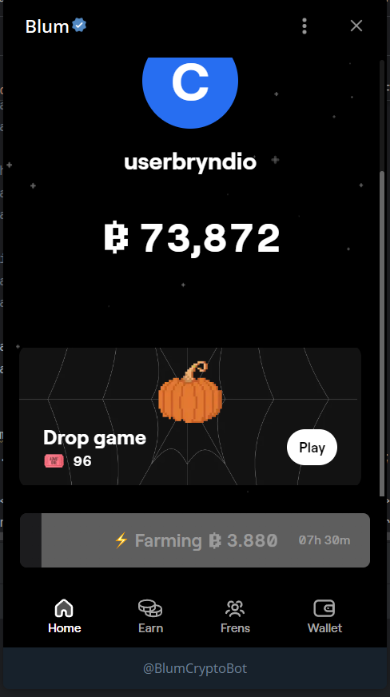
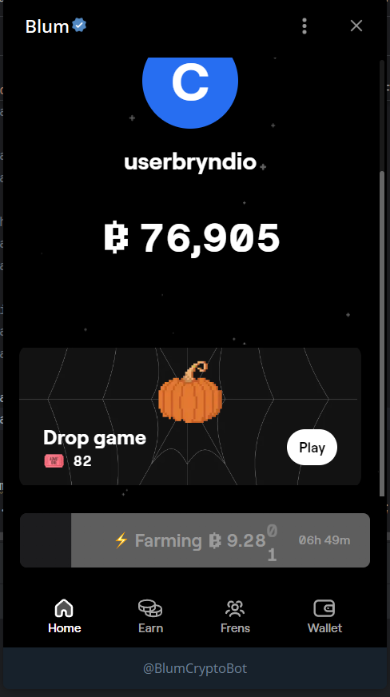
Now it is done for web and desktop tg. Fixed delays almost to min

diff --git a/AutoClicker/blumkiss/src/logic/Logic.java b/AutoClicker/blumkiss/src/logic/Logic.java
@@ -30,6 +30,15 @@ public class Logic {
     static {
         System.loadLibrary(Core.NATIVE_LIBRARY_NAME);
     }
+    static int webX = 717;
+    static int webY = 82;
+    static int webWidth = 488;
+    static int webHeight = 872;
+
+//    static int webX = 698;
+//    static int webY = 200;
+//    static int webWidth = 524;
+//    static int webHeight = 820;
 
     public static void main(String[] args) throws IOException, AWTException, InterruptedException {
         Logic logic = new Logic();
@@ -131,6 +140,8 @@ public class Logic {
 //        Thread.sleep(2500);
 
         captureAndSearchText(robot, Config.playPng, Config.searchWallet, Config.searchWallet);
+   //     captureAndSearchText(robot, Config.playPng, "game", "game");
+
 
     }
 
@@ -161,12 +172,12 @@ public class Logic {
 
     public void captureAndSearchText(Robot robot, String fileName, String searchText, String foundText) throws AWTException, IOException, InterruptedException {
         BufferedImage screenshot;
-        if(searchText.equals("Wallet")){
+        if(searchText.equals("Wallet") || searchText.equals("game")){
 
-            int xPlay = (717*Config.width)/1920;
-            int yPlay = (82*Config.height)/1080;
-            int widthPlay = (488*Config.width)/1920;
-            int heightPlay = (872*Config.height)/1080;
+            int xPlay = (webX*Config.width)/1920;
+            int yPlay = (webY*Config.height)/1080;
+            int widthPlay = (webWidth*Config.width)/1920;
+            int heightPlay = (webHeight*Config.height)/1080;
             screenshot = new Robot().createScreenCapture(
                     new java.awt.Rectangle(xPlay, yPlay , widthPlay, heightPlay)
             );
@@ -199,8 +210,8 @@ public class Logic {
         for (Word word : words) {
             if (word.getText().equalsIgnoreCase(searchText)) {
                 java.awt.Rectangle boundingBox = word.getBoundingBox();
-                int xPlay = (717*Config.width)/1920;
-                int yPlay = (82*Config.height)/1080;
+                int xPlay = (webX*Config.width)/1920;
+                int yPlay = (webY*Config.height)/1080;
 
                 int x = boundingBox.x;
                 int y = boundingBox.y;
@@ -208,6 +219,13 @@ public class Logic {
                 int heightBox = boundingBox.height;
                 if(searchText.matches("Wallet")){
                     robot.mouseMove(xPlay+x, yPlay+y - ((225*Config.width)/1920));
+                    Thread.sleep(2000);
+                    robot.mousePress(InputEvent.BUTTON1_DOWN_MASK);
+                    robot.mouseRelease(InputEvent.BUTTON1_DOWN_MASK);
+                    Config.findPlay = true;
+                }
+                else if(searchText.matches("game")){
+                    robot.mouseMove(xPlay+x + (300*Config.width)/1920, yPlay+y);
                     Thread.sleep(2000);
                     robot.mousePress(InputEvent.BUTTON1_DOWN_MASK);
                     robot.mouseRelease(InputEvent.BUTTON1_DOWN_MASK);
@@ -237,17 +255,17 @@ public class Logic {
     }
 
     public void playGame(Robot robot) throws IOException, InterruptedException, AWTException {
-        int xPlay = (717*Config.width)/1920;
-        int yPlay = (82*Config.height)/1080;
-        int widthPlay = (488*Config.width)/1920;
-        int heightPlay = (872*Config.height)/1080;
+        int xPlay = (webX*Config.width)/1920;
+        int yPlay = (webY*Config.height)/1080;
+        int widthPlay = (webWidth*Config.width)/1920;
+        int heightPlay = (webHeight*Config.height)/1080;
         int gameplayIndex = 0;
-        long gameDuration = 32 * 1000;
+        long gameDuration = 33 * 1000;
         long startTime = System.currentTimeMillis();
 
         robot.mousePress(InputEvent.BUTTON1_DOWN_MASK);
         robot.mouseRelease(InputEvent.BUTTON1_DOWN_MASK);
-        Thread.sleep(2000);
+        Thread.sleep(200);
 
         while (System.currentTimeMillis() - startTime < gameDuration) {
             while (System.currentTimeMillis() - startTime < gameDuration/2) {
@@ -260,7 +278,7 @@ public class Logic {
                 ImageIO.write(screenshotGameplay, "png", outputfile);
 
                 detectObjects(robot, screenshotFilename, xPlay, yPlay);
-                Thread.sleep(200);
+                Thread.sleep(10);
             }
             while(System.currentTimeMillis() - startTime < gameDuration) {
                 BufferedImage screenshotGameplay = new Robot().createScreenCapture(
@@ -272,7 +290,7 @@ public class Logic {
                 ImageIO.write(screenshotGameplay, "png", outputfile);
 
                 detectObjects(robot, screenshotFilename, xPlay, yPlay);
-                Thread.sleep(200);
+                Thread.sleep(10);
             }
         }
 
@@ -293,10 +311,10 @@ public class Logic {
     }
 
     public boolean findAndClickPlayButton(Robot robot) throws IOException, InterruptedException, AWTException {
-        int xPlay = (717*Config.width)/1920;
-        int yPlay = (82*Config.height)/1080;
-        int widthPlay = (488*Config.width)/1920;
-        int heightPlay = (872*Config.height)/1080;
+        int xPlay = (webX*Config.width)/1920;
+        int yPlay = (webY*Config.height)/1080;
+        int widthPlay = (webWidth*Config.width)/1920;
+        int heightPlay = (webHeight*Config.height)/1080;
         BufferedImage screenshot = new Robot().createScreenCapture(
                 new java.awt.Rectangle(xPlay, yPlay , widthPlay, heightPlay)
         );
@@ -373,7 +391,7 @@ public class Logic {
                 Imgcodecs.imwrite(maskFilename, singleStarMask);
 
                 starIndex++;
-                Thread.sleep(3);
+                Thread.sleep(2);
             }
 //            else{
 //                System.out.println("Object is too small, skipping it" + boundingRect.width + " - width; " + boundingRect.height + " - height.");
